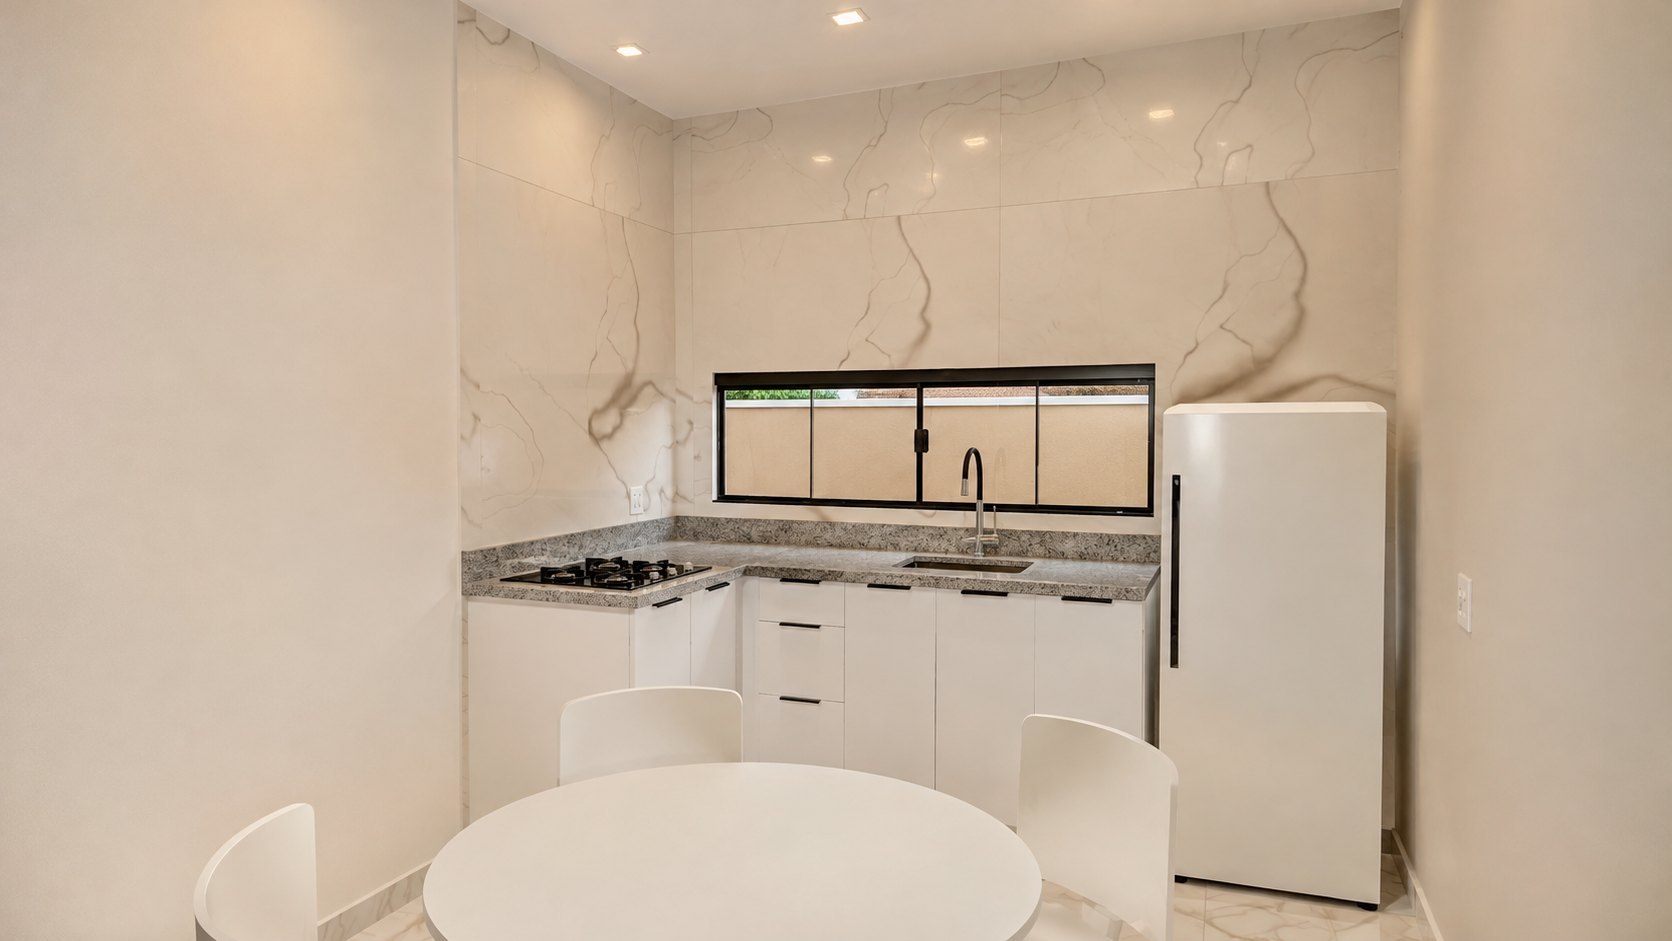
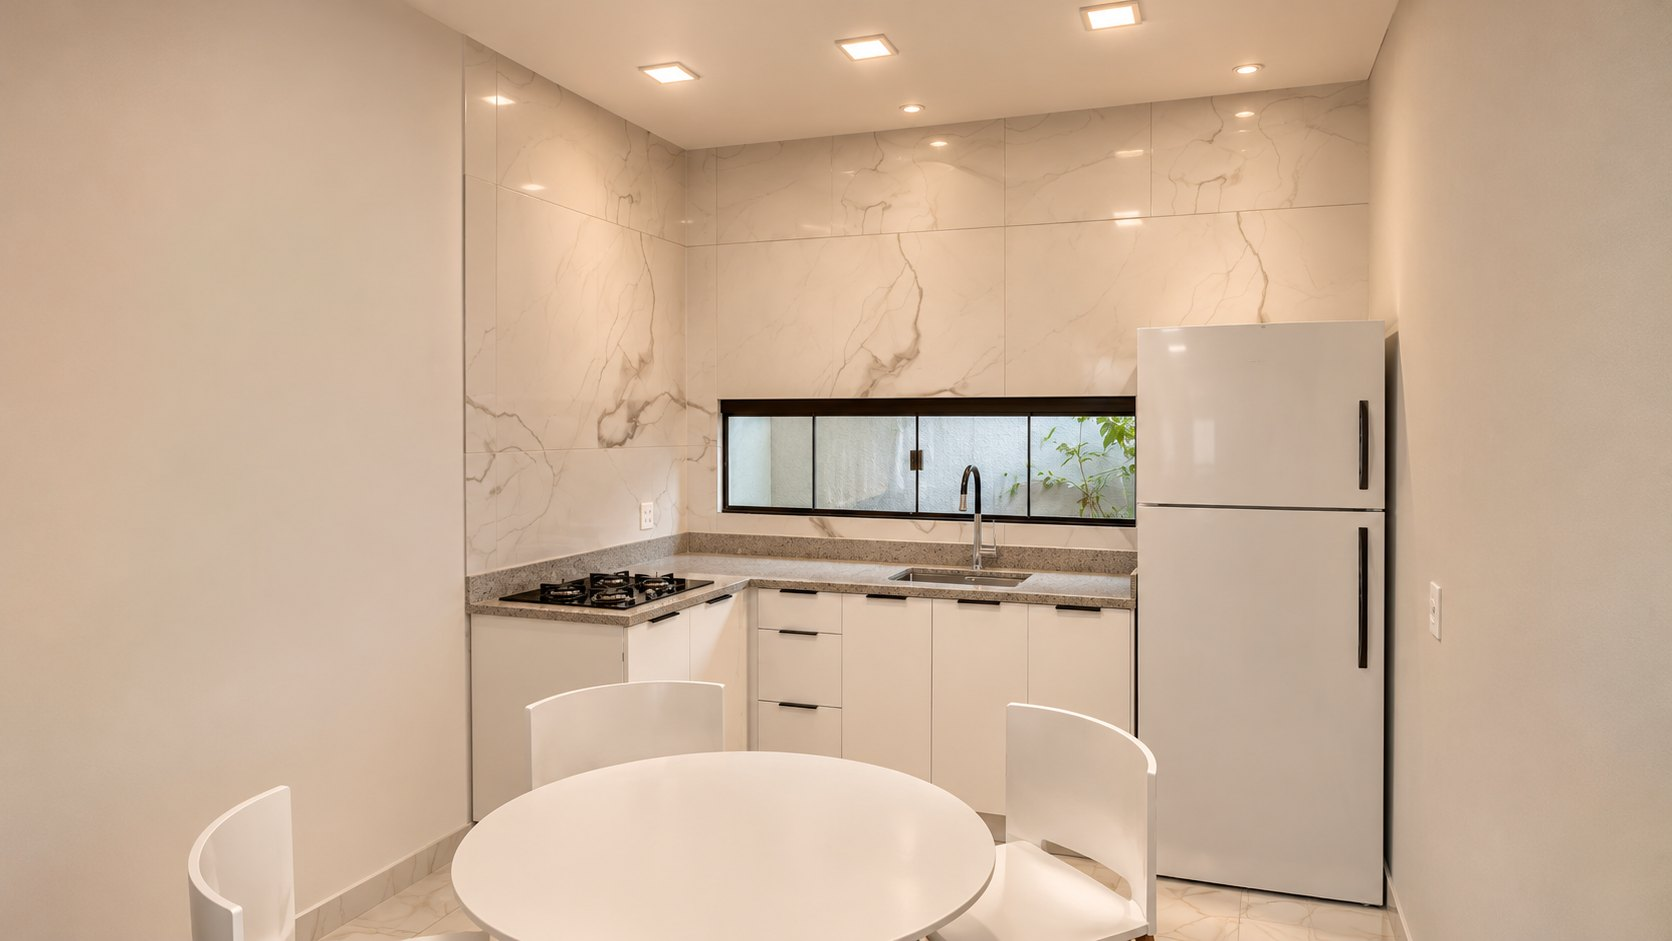
Casa Lyra R. Cravo: apresentação (padrão médio)

diff --git a/index.html b/index.html
@@ -282,7 +282,7 @@ footer .miolo { display: flex; justify-content: space-between; gap: 20px; flex-w
     </article>
 
     <article class="ambiente">
-      <div class="fotos"><figure class="quadro"><img loading="lazy" src="img/cozinha.jpg" alt="Cozinha em L com bancada de granito cinza, janela sobre a pia e mesa redonda" data-legenda="Cozinha"></figure><figure class="quadro"><img loading="lazy" src="img/cozinha-l.jpg" alt="Canto da cozinha em L com cooktop e a porta de vidro de abrir para o quintal" data-legenda="Cozinha, canto do L"></figure></div>
+      <div class="fotos"><figure class="quadro"><img loading="lazy" src="img/cozinha.jpg" alt="Cozinha em L com bancada de granito cinza, janela sobre a pia e mesa redonda" data-legenda="Cozinha"></figure></div>
       <div>
         <h3>Cozinha</h3><span class="area">10,0 m²</span>
         <p>Cozinha em L: a pia fica no centro da parede, sob uma janela de correr de 4 folhas, e o cooktop vai para o braço menor do L, e a porta de vidro de abrir para o quintal fica no canto oposto. Assim sobra bancada livre para preparar a comida. Bancada, módulos, torneira, cooktop, geladeira e mesa aparecem como sugestão e não integram o valor proposto.</p>
